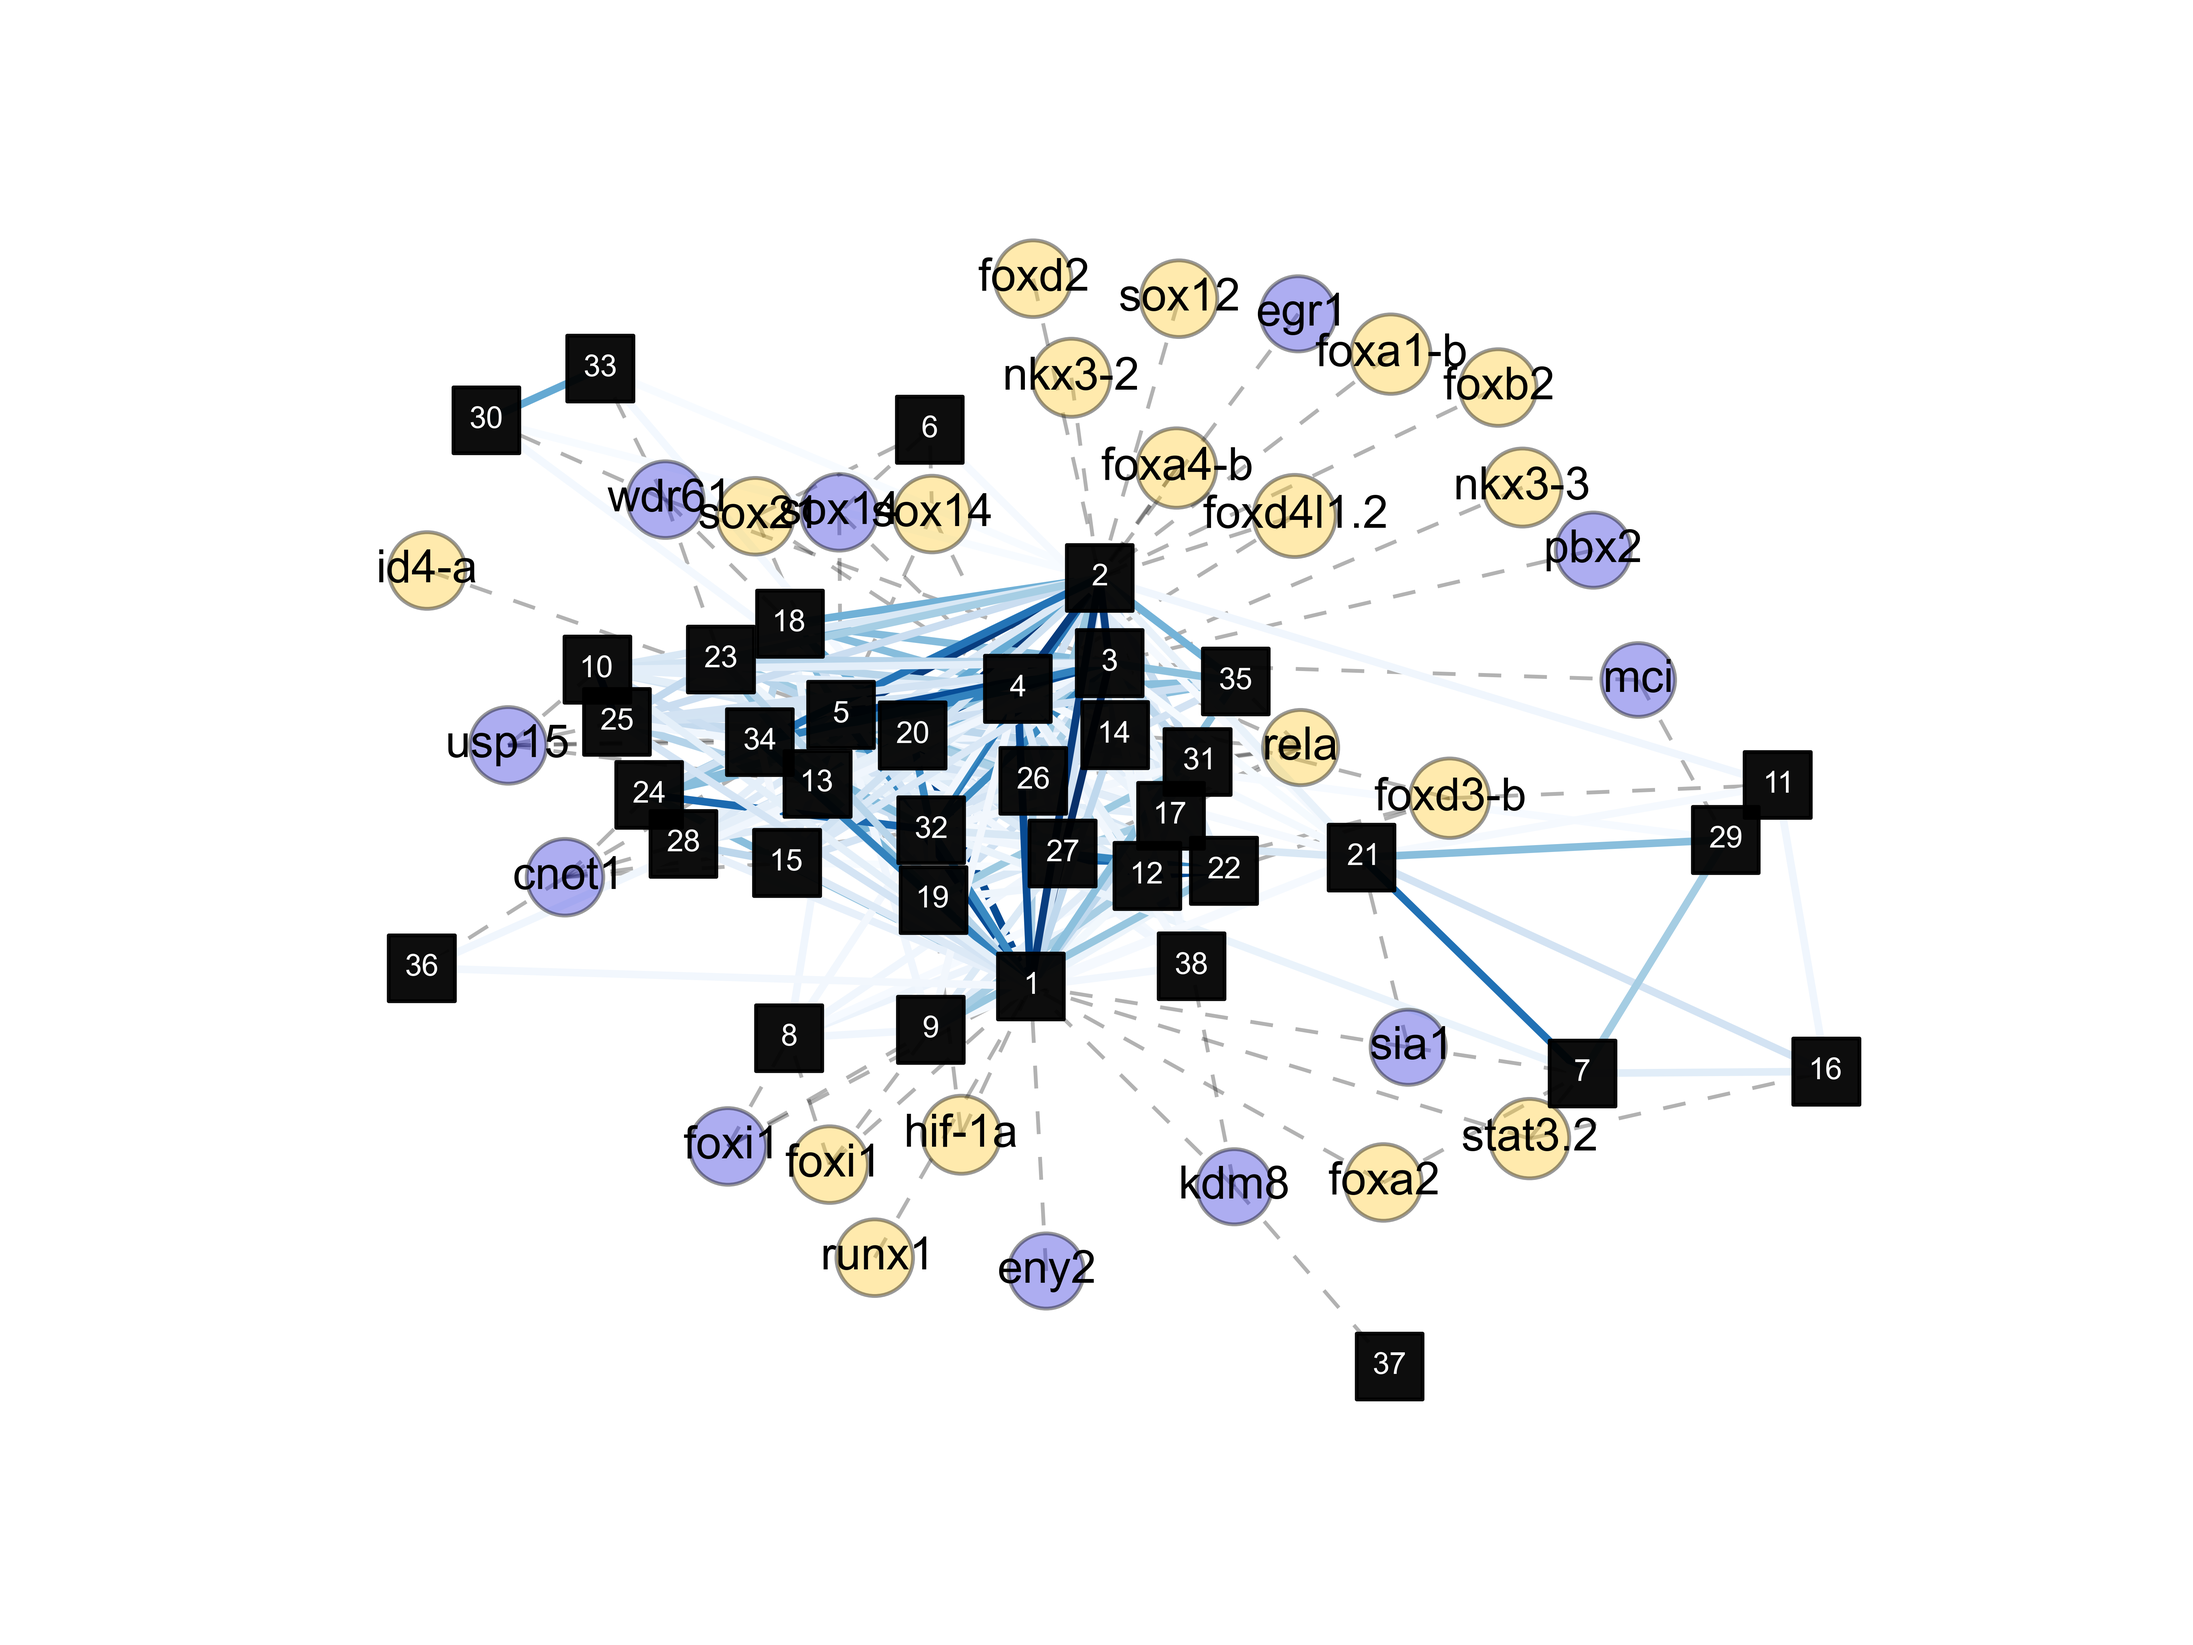
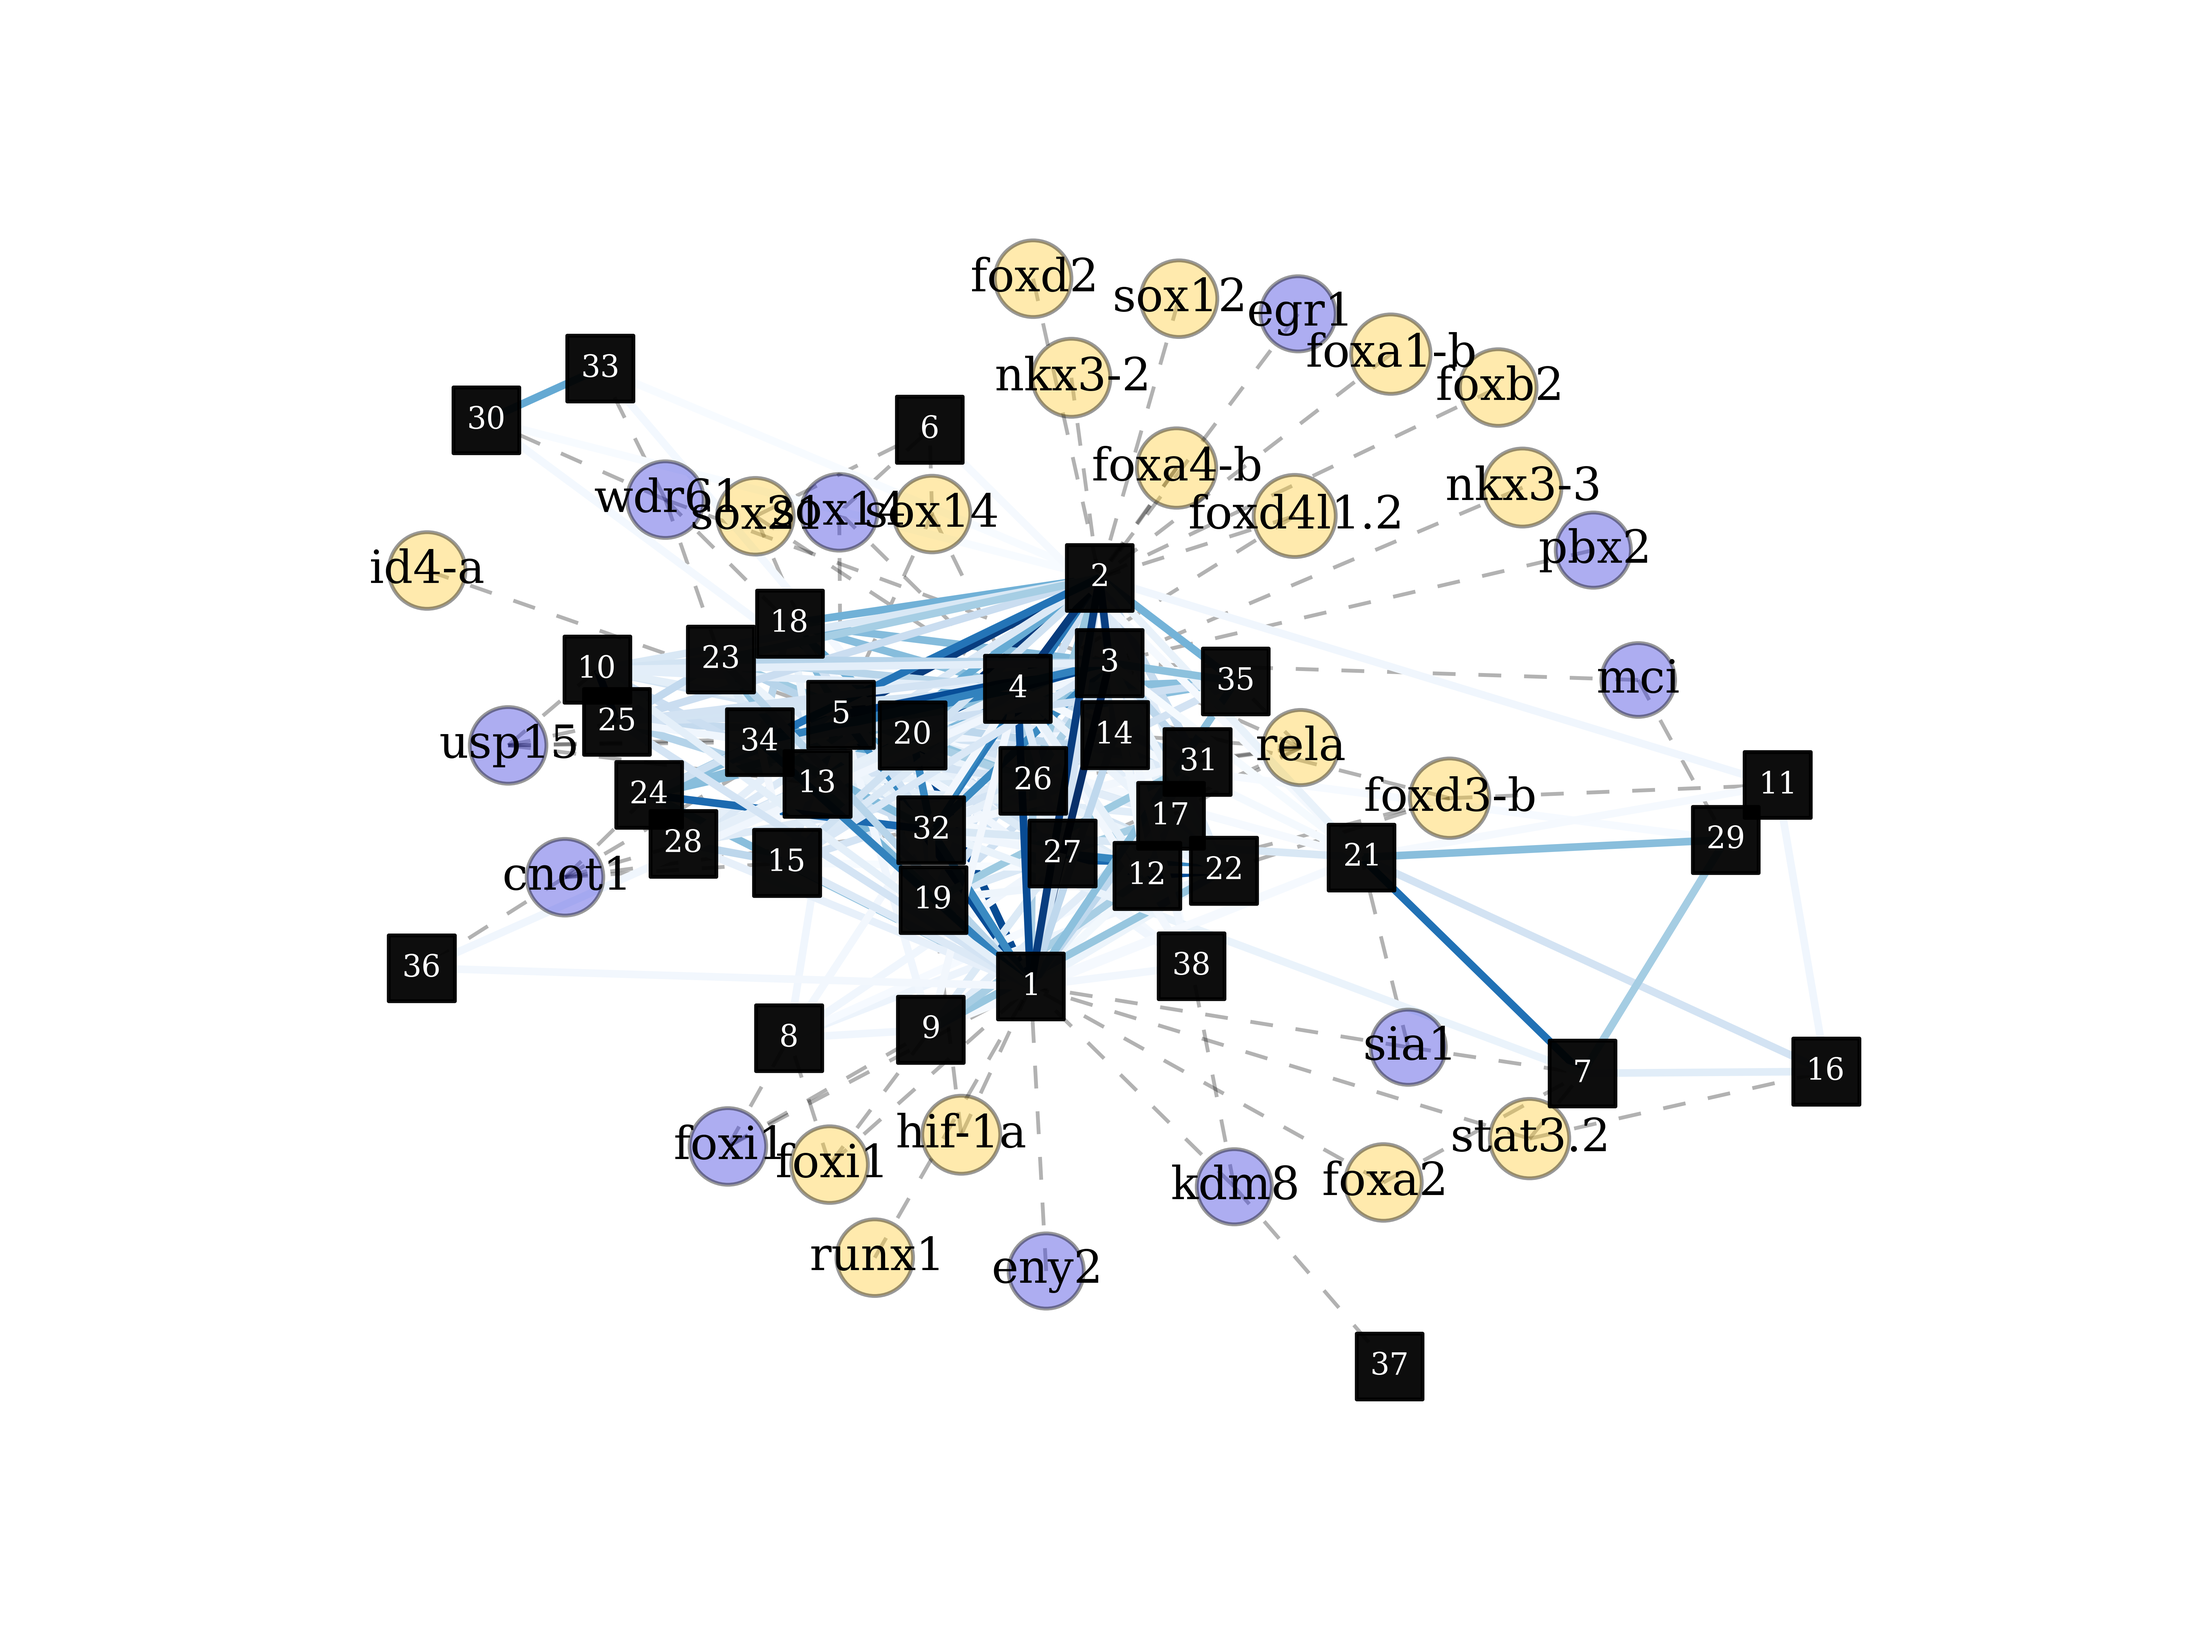
updating docs

diff --git a/htsint/GeneSet.py b/htsint/GeneSet.py
@@ -35,7 +35,7 @@ class GeneSet(object):
         self.labelOffset = 0.05
         self.fontSize = 8 
         self.legendFontSize = 8
-        self.fontName = 'sans serif'
+        self.fontName = 'serif'
         self.termAlpha = 0.95
         self.geneAlpha = 0.4
         self.nodeSizeGene = 300
@@ -317,7 +317,7 @@ class GeneSet(object):
             ## offset labels
             #for p in _pos:
             #    _pos[p][1] += self.labelOffset
-            nx.draw_networkx_labels(_G,_pos,font_color='black',labels=geneLabels[taxon],ax=ax)
+            nx.draw_networkx_labels(_G,_pos,font_color='black',font_family=self.fontName,labels=geneLabels[taxon],ax=ax)
 
         ## draw term nodes
         nx.draw_networkx_nodes(self.G,pos,node_size=self.nodeSizeTerm,nodelist=termIds,node_shape='s',
@@ -328,7 +328,7 @@ class GeneSet(object):
         for p in pos:
             if p in termIds:
                 pos1[p] = pos[p]
-        nx.draw_networkx_labels(G1,pos1,font_color='white',font_size=self.fontSize,font_family=self.fontName,ax=ax)
+        nx.draw_networkx_labels(G1,pos1,font_color='white',font_family=self.fontName,font_size=self.fontSize,ax=ax)
 
         ## draw edges
         nx.draw_networkx_edges(self.G,pos,edgelist=edgeList1,width=1.0,edge_color='k',style='dashed',ax=ax,alpha=0.3)
